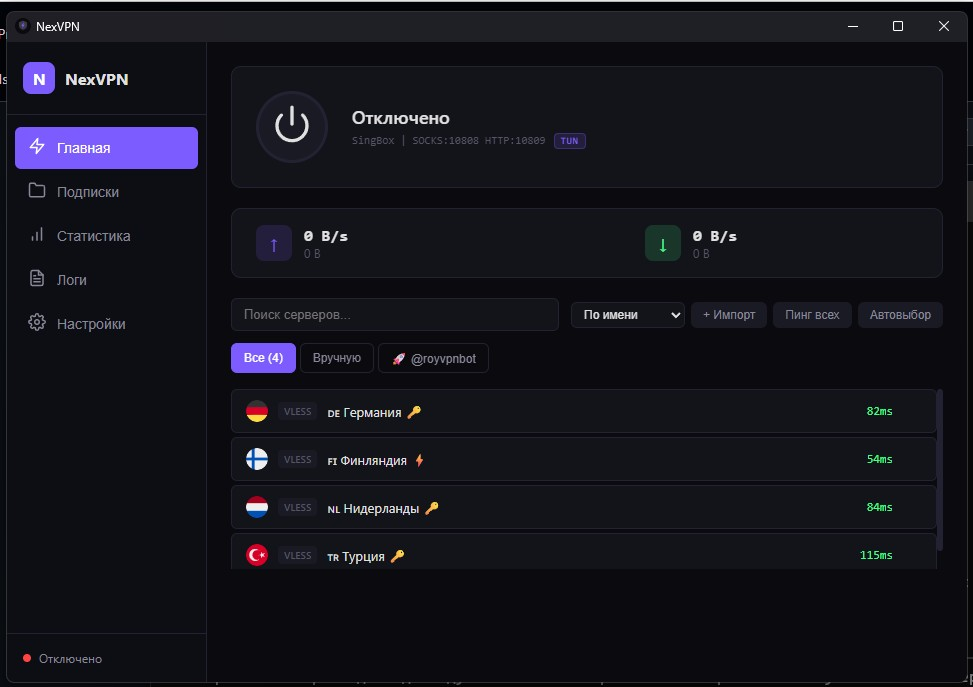
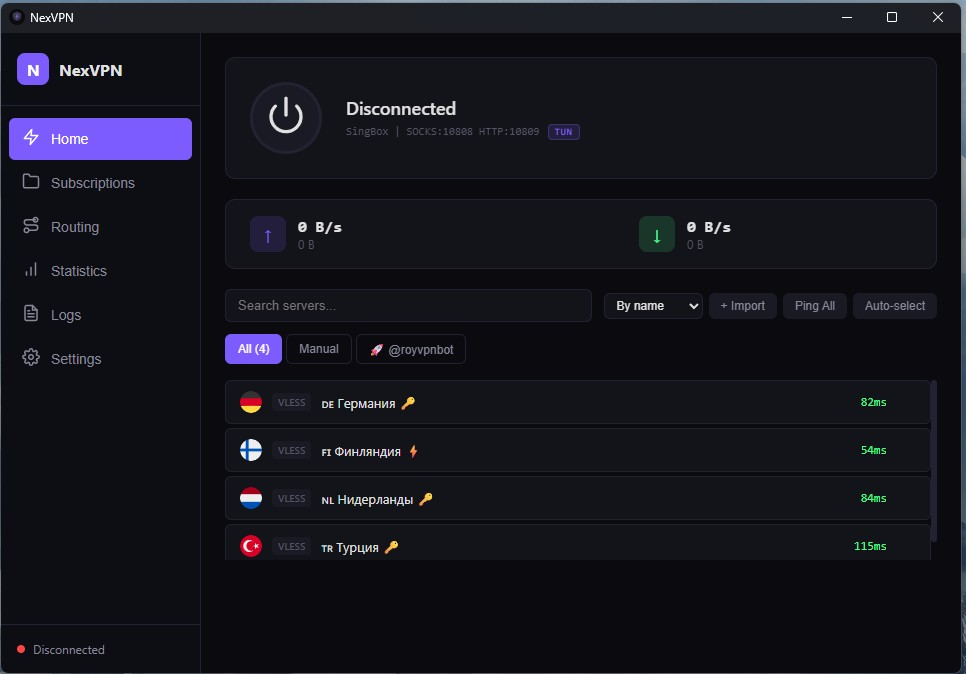
docs: update screenshots, add routing rules to features

diff --git a/README_RU.md b/README_RU.md
@@ -21,6 +21,8 @@ VPN-клиент с открытым исходным кодом на Tauri, Rea
 - **Два ядра** — переключение между sing-box и Xray-core в один клик
 - **Подписки** — импорт и автообновление подписок по URL
 - **Импорт ссылок** — вставьте `vless://`, `vmess://`, `ss://`, `trojan://` ссылки напрямую
+- **Правила маршрутизации** — доменные правила (proxy / direct / block) с готовыми шаблонами для блокировки рекламы и обхода региональных сайтов
+- **Split tunneling** — выбор маршрута по умолчанию: весь трафик через VPN или только выбранные домены
 - **Системный прокси и TUN** — HTTP-прокси в системе или полный TUN VPN (весь трафик)
 - **TCP пинг** — проверка задержки серверов, автовыбор лучшего
 - **Темы** — 4 цветовых темы (Dark, Light, Midnight, Cyber)

diff --git a/README.md b/README.md
@@ -21,6 +21,8 @@ Open-source VPN client built with Tauri, React and Rust. Supports multiple proxy
 - **Dual core** — switch between sing-box and Xray-core in one click
 - **Subscriptions** — import and auto-update subscription URLs
 - **Link import** — paste `vless://`, `vmess://`, `ss://`, `trojan://` links directly
+- **Routing rules** — domain-based rules (proxy / direct / block) with quick presets for ads blocking and regional bypass
+- **Split tunneling** — choose default route: proxy all traffic or only selected domains (Direct All mode)
 - **System Proxy & TUN mode** — system HTTP proxy or full TUN VPN (captures all traffic)
 - **TCP ping** — single and bulk server latency testing, auto-select best server
 - **Themes** — 4 color themes (Dark, Light, Midnight, Cyber)
